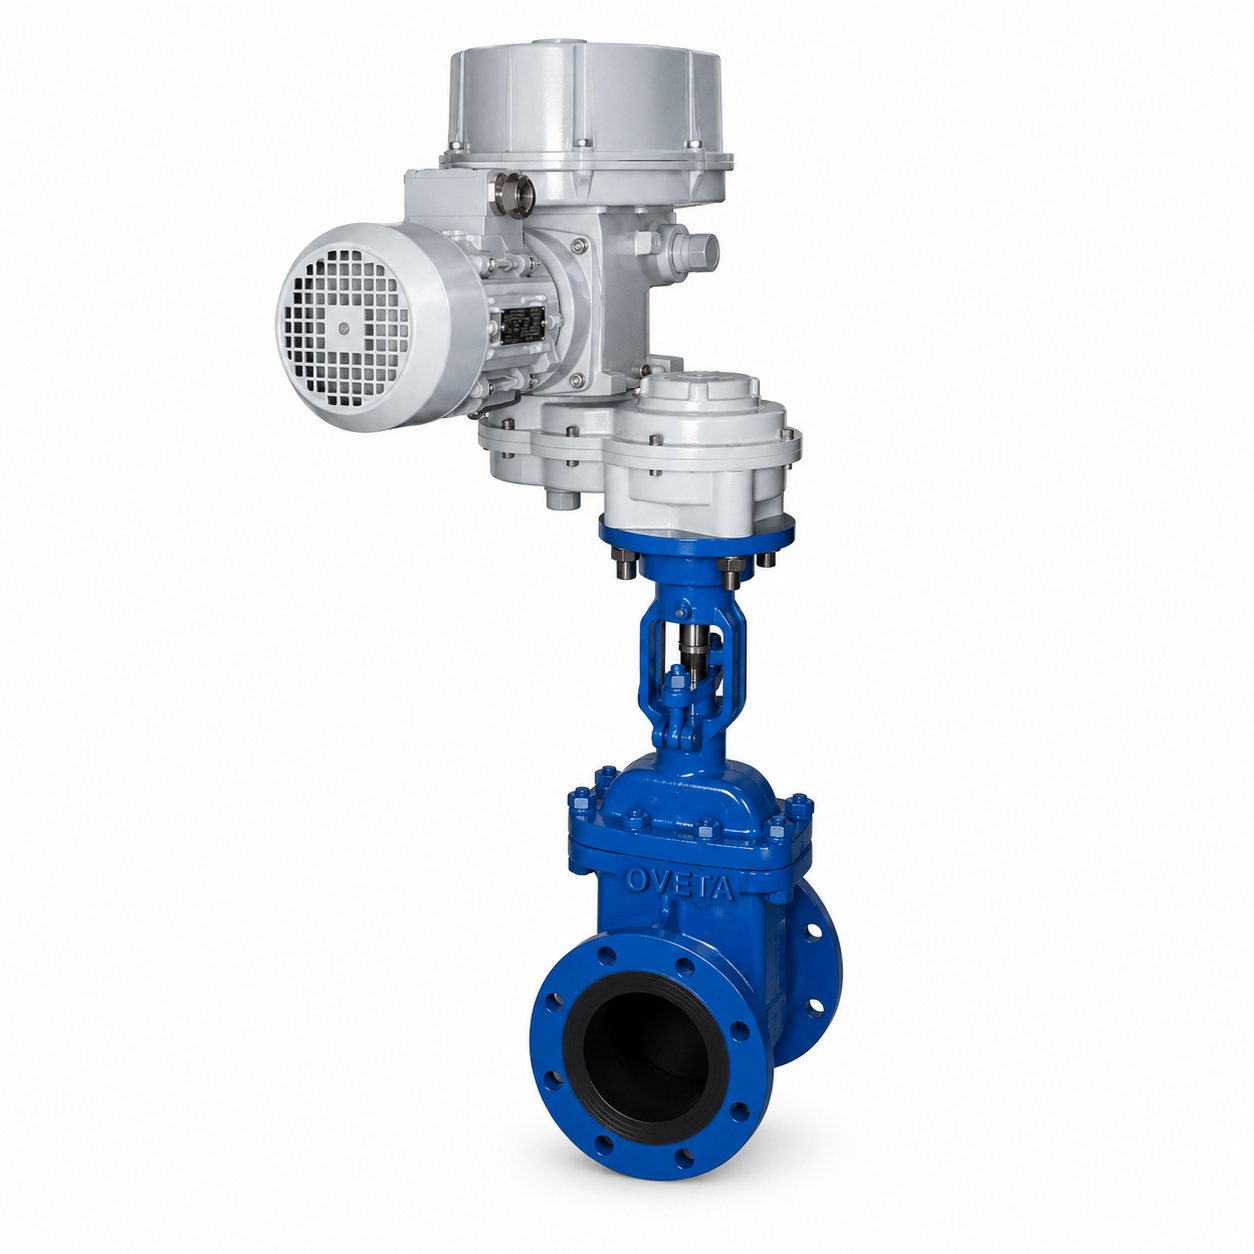
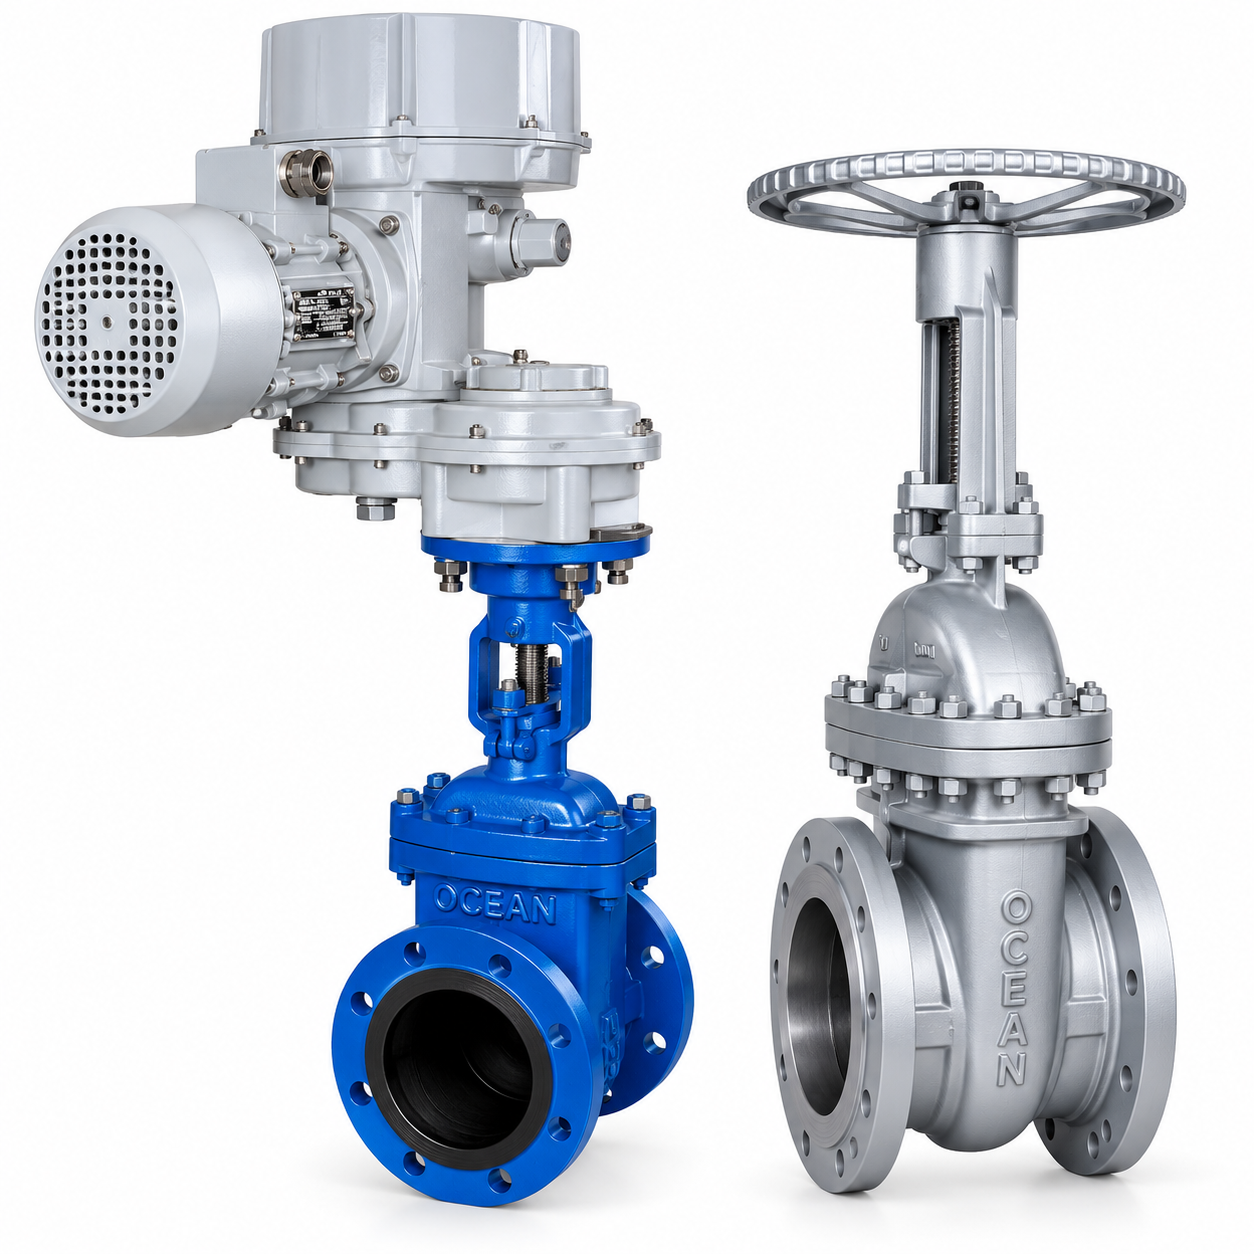
updatedd

diff --git a/src/app/products/page.js b/src/app/products/page.js
@@ -58,7 +58,7 @@ export default async function ProductsPage() {
     <main className="min-h-screen bg-[#f4f7f9] pb-20 pt-36">
       <div className="container-butterfly">
         <p className="text-xs font-bold uppercase tracking-[.25em] text-cyan-700">
-          OVETA product range
+          OCEAN product range
         </p>
 
         <h1 className="mt-4 max-w-4xl text-4xl font-semibold leading-tight text-[#082338] md:text-6xl">
